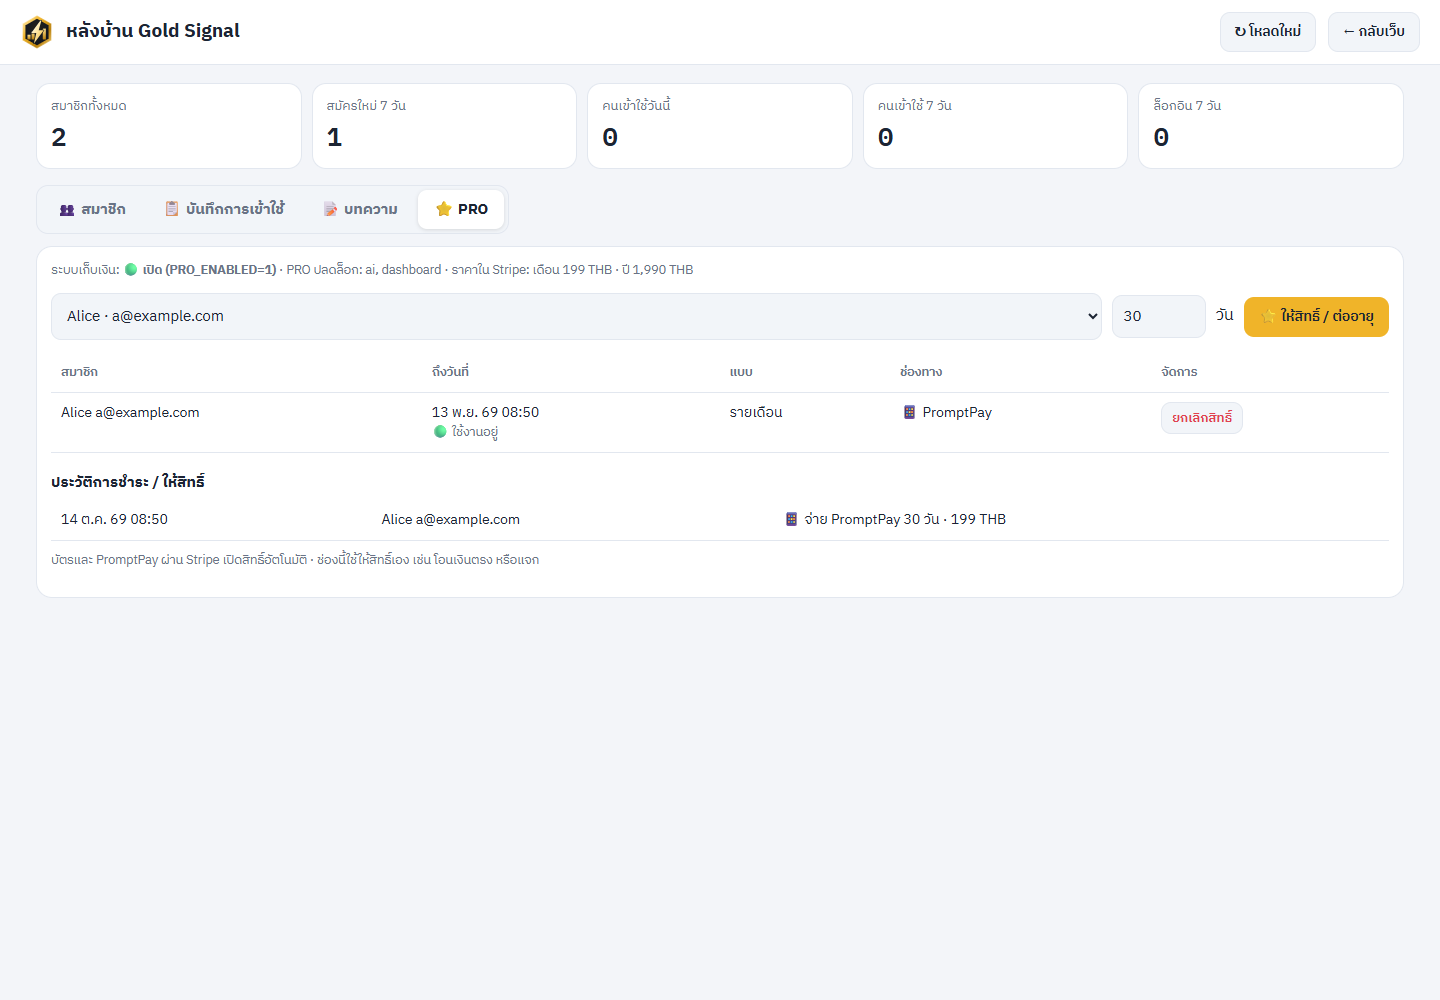
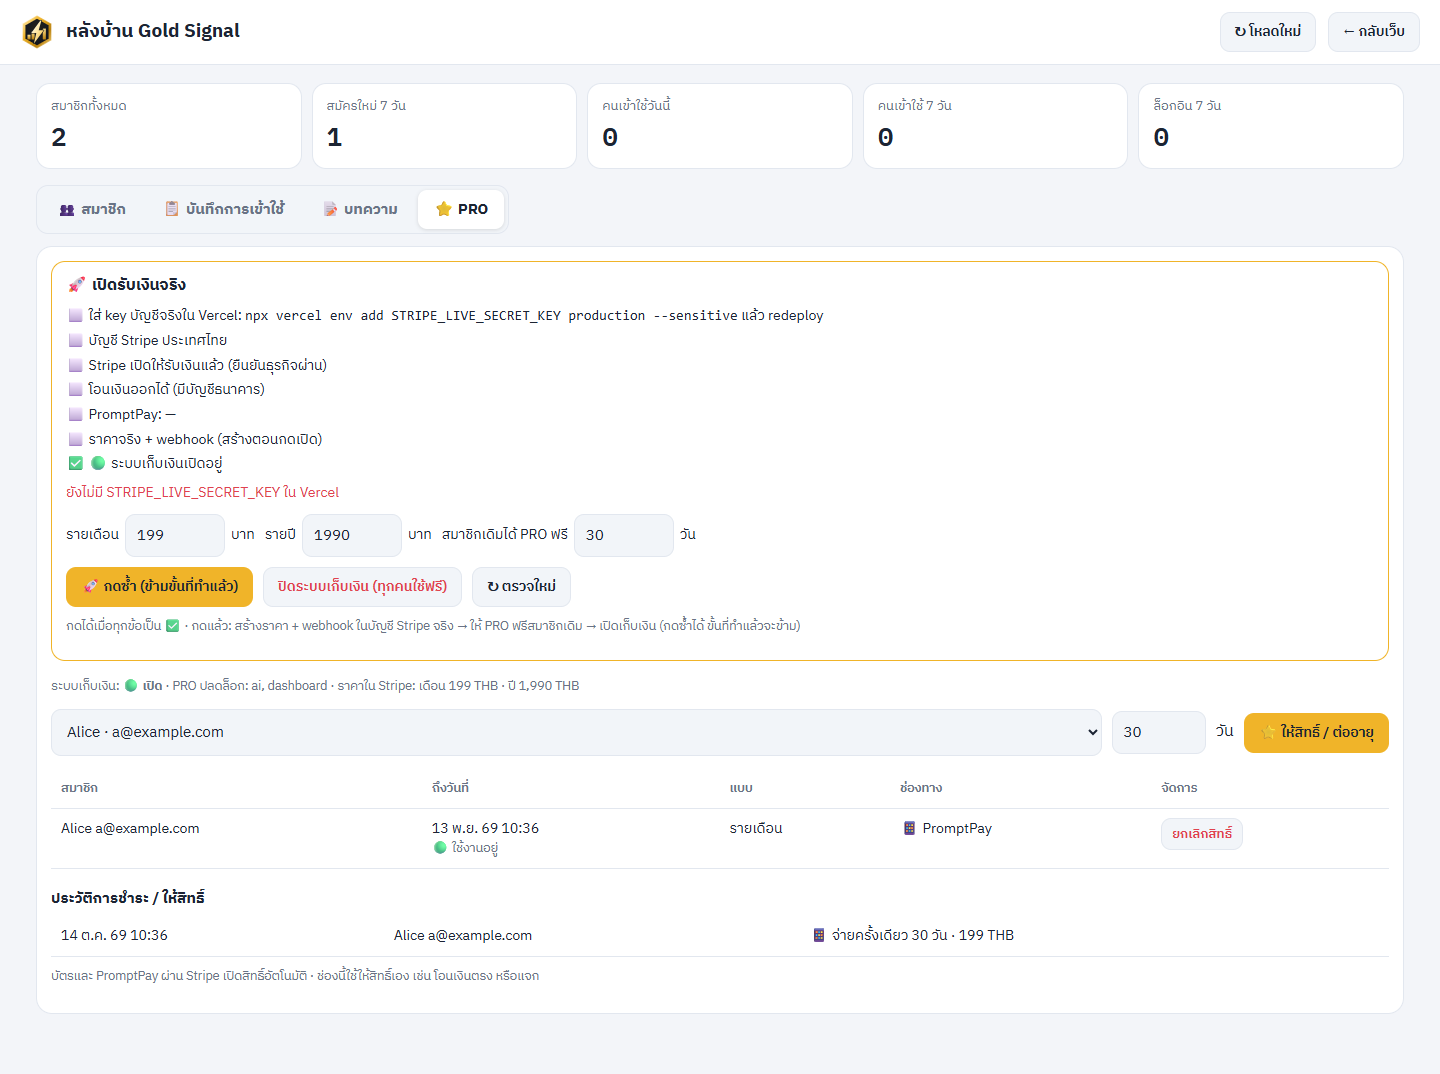
Back-office go-live button: checks the owner's live Thai Stripe account, creates THB prices + webhook, gives existing members 30 days PRO, switches the paywall on (Blob config, no redeploy)

diff --git a/admin.html b/admin.html
@@ -77,6 +77,10 @@
     .art-row b { flex: 1; min-width: 200px; }
     .preview { border: 1px dashed var(--line); border-radius: 12px; padding: 10px 14px; }
     .preview h4 { margin: 10px 0 4px; } .preview p { margin: 6px 0; }
+    .golive { border: 1px solid var(--gold-bg); border-radius: 14px; padding: 12px 14px; margin-bottom: 16px; }
+    .btn:disabled { opacity: .45; cursor: not-allowed; }
+    .gl-checks { list-style: none; margin: 0; padding: 0; display: grid; gap: 3px; font-size: 14px; }
+    .ed .row label.chk input { width: 100px; }
   </style>
 </head>
 <body>
@@ -140,6 +144,20 @@
     </section>
 
     <section class="card" id="proPane" hidden>
+      <div class="golive" id="goLive">
+        <h3 style="margin:0 0 6px;font-size:16px">🚀 เปิดรับเงินจริง</h3>
+        <ul class="gl-checks" id="glChecks"><li>กำลังตรวจ…</li></ul>
+        <div class="ed" style="margin:10px 0 0"><div class="row">
+          <label class="chk">รายเดือน <input id="glMonth" type="number" min="20" value="199"> บาท</label>
+          <label class="chk">รายปี <input id="glYear" type="number" min="20" value="1990"> บาท</label>
+          <label class="chk">สมาชิกเดิมได้ PRO ฟรี <input id="glGift" type="number" min="0" max="365" value="30"> วัน</label>
+        </div><div class="row">
+          <button class="btn gold" type="button" id="glLaunch" disabled>🚀 เปิดรับเงินจริง</button>
+          <button class="btn danger" type="button" id="glOff" hidden>ปิดระบบเก็บเงิน (ทุกคนใช้ฟรี)</button>
+          <button class="btn" type="button" id="glRecheck">↻ ตรวจใหม่</button>
+        </div></div>
+        <p class="note" id="glNote">กดได้เมื่อทุกข้อเป็น ✅ · กดแล้ว: สร้างราคา + webhook ในบัญชี Stripe จริง → ให้ PRO ฟรีสมาชิกเดิม → เปิดเก็บเงิน (กดซ้ำได้ ขั้นที่ทำแล้วจะข้าม)</p>
+      </div>
       <p id="pState" class="note" style="margin-top:0"></p>
       <form class="ed" id="pForm"><div class="row">
         <select id="pWho" style="flex:1;min-width:220px"></select>
@@ -295,13 +313,54 @@
     const SRC = { card: '💳 บัตร', promptpay: '📱 PromptPay', admin: '🛠 แอดมิน' };
     const nameOf = (id) => { const m = members.find((x) => x.id === id); return m ? `${m.name || ''} ${m.email}`.trim() : id; };
     const HT = { launch: '🎁 ของขวัญเปิดตัว', promptpay: '📱 จ่ายครั้งเดียว', subscribe: '💳 สมัครแบบบัตร', renew: '💳 ต่ออายุ', cancel: '✕ ยกเลิก', update: 'อัปเดต', grant: '⭐ แอดมินให้สิทธิ์', revoke: '✕ แอดมินยกเลิก' };
+    // ---------- 🚀 go live (api/golive.mjs) ----------
+    async function loadGoLive() {
+      try {
+        const s = await api('/api/golive');
+        const a = s.account || {};
+        const row = (ok, text, warn) => `<li>${ok ? '✅' : warn ? '⚠' : '⬜'} ${text}</li>`;
+        const live = s.liveKey && /^(sk|rk)_live_$/.test(s.keyKind);
+        $('glChecks').innerHTML = [
+          row(live, s.liveKey ? `ใส่ key บัญชีจริงแล้ว (${esc(s.keyKind)}…)` : 'ใส่ key บัญชีจริงใน Vercel: <code>npx vercel env add STRIPE_LIVE_SECRET_KEY production --sensitive</code> แล้ว redeploy'),
+          row(a.country === 'TH', s.account ? `บัญชี ${esc(a.name || '')} ประเทศ ${esc(a.country || '?')}` : 'บัญชี Stripe ประเทศไทย'),
+          row(!!a.charges, 'Stripe เปิดให้รับเงินแล้ว (ยืนยันธุรกิจผ่าน)'),
+          row(!!a.payouts, 'โอนเงินออกได้ (มีบัญชีธนาคาร)', s.account && !a.payouts),
+          row(a.promptpay === 'active', `PromptPay: ${esc(a.promptpay || '—')}`, s.account && a.promptpay !== 'active'),
+          row(!!s.configured, s.configured ? `ราคาจริง ${s.configured.amounts ? `${s.configured.amounts.month} / ${s.configured.amounts.year} บาท` : ''} + webhook พร้อม` : 'ราคาจริง + webhook (สร้างตอนกดเปิด)'),
+          row(s.enabled, s.enabled ? '🟢 ระบบเก็บเงินเปิดอยู่' : 'ระบบเก็บเงินยังปิด — ทุกคนใช้ฟรี'),
+        ].join('') + (s.problems.length ? `<li class="err" style="margin-top:4px">${s.problems.map(esc).join('<br>')}</li>` : '');
+        $('glLaunch').disabled = !s.ready;
+        $('glLaunch').textContent = s.enabled ? '🚀 กดซ้ำ (ข้ามขั้นที่ทำแล้ว)' : '🚀 เปิดรับเงินจริง';
+        $('glOff').hidden = !s.enabled;
+      } catch (e) { $('glChecks').innerHTML = `<li class="err">${esc(e.message)}</li>`; }
+    }
+    $('glRecheck').addEventListener('click', loadGoLive);
+    $('glLaunch').addEventListener('click', async () => {
+      const month = +$('glMonth').value, year = +$('glYear').value, giftDays = +$('glGift').value;
+      if (!confirm(`เปิดรับเงินจริง?\n\n• ราคา ${month} บาท/เดือน · ${year} บาท/ปี (บัญชี Stripe จริง)\n• สมาชิกเดิมได้ PRO ฟรี ${giftDays} วัน\n• สมาชิกที่ไม่ได้ PRO จะใช้แดชบอร์ดและโค้ช AI ไม่ได้`)) return;
+      $('glLaunch').disabled = true;
+      try {
+        const r = await fetch('/api/golive', { method: 'POST', headers: { 'content-type': 'application/json' }, body: JSON.stringify({ action: 'launch', month, year, giftDays }) });
+        const j = await r.json().catch(() => ({}));
+        if (!r.ok || !j.ok) throw new Error([j.error || 'ไม่สำเร็จ', ...(j.problems || [])].join('\n'));
+        alert('✅ ' + j.steps.join('\n✅ '));
+      } catch (e) { alert(e.message); }
+      loadGoLive(); loadPro();
+    });
+    $('glOff').addEventListener('click', async () => {
+      if (!confirm('ปิดระบบเก็บเงิน? ทุกคนจะใช้ฟีเจอร์ PRO ได้ฟรี (สมาชิกที่จ่ายแล้วยังเป็น PRO ตามเดิม)')) return;
+      try { await api('/api/golive', { method: 'POST', body: JSON.stringify({ action: 'off' }) }); } catch (e) { alert(e.message); }
+      loadGoLive(); loadPro();
+    });
+
     async function loadPro() {
+      loadGoLive();
       try {
         const [st, list] = await Promise.all([api('/api/pro'), api('/api/pro?list=1')]);
         pro = list;
         const pr = st.prices || {};
         const priceTxt = ['month', 'year'].map((k) => (pr[k] ? `${k === 'month' ? 'เดือน' : 'ปี'} ${(pr[k].amount / 100).toLocaleString('th-TH')} ${esc(pr[k].currency.toUpperCase())}` : '')).filter(Boolean).join(' · ') || 'ยังไม่ตั้ง';
-        $('pState').innerHTML = `ระบบเก็บเงิน: <b>${st.enabled ? '🟢 เปิด (PRO_ENABLED=1)' : '⚪ ปิด — ทุกคนใช้ฟีเจอร์ PRO ได้ฟรี'}</b> · PRO ปลดล็อก: ${esc(st.features.join(', '))} · ราคาใน Stripe: ${priceTxt}`;
+        $('pState').innerHTML = `ระบบเก็บเงิน: <b>${st.enabled ? '🟢 เปิด' : '⚪ ปิด — ทุกคนใช้ฟีเจอร์ PRO ได้ฟรี'}</b> · PRO ปลดล็อก: ${esc(st.features.join(', '))} · ราคาใน Stripe: ${priceTxt}`;
         $('pWho').innerHTML = members.filter((m) => !m.admin).map((m) => `<option value="${esc(m.id)}">${esc(m.name || '—')} · ${esc(m.email)}</option>`).join('');
         const rows = Object.entries(pro.users).sort((a, b) => b[1].until - a[1].until);
         $('pBody').innerHTML = rows.length ? rows.map(([id, u]) => `<tr><td class="wide" data-l="สมาชิก">${esc(nameOf(id))}</td>

diff --git a/middleware.js b/middleware.js
@@ -355,12 +355,16 @@ async function adminMembers() {
 }
 
 // ---------- PRO (access/pro.json, written by api/pay/webhook.mjs and api/pro.mjs — same rules as lib/gs.mjs proOf) ----------
-let proCache = { at: 0, users: {} };
+// Paywall on = env PRO_ENABLED=1 or access/pro-config.json { enabled } (the back office's go-live button)
+let proCache = { at: 0, users: {}, enabled: false };
 async function proOk(m, feature) {
-  if (process.env.PRO_ENABLED !== '1') return true;
+  if (Date.now() - proCache.at > 30e3) {
+    const [cfg, all] = await Promise.all([readJson('access/pro-config.json', {}), readJson('access/pro.json', { users: {} })]);
+    proCache = { at: Date.now(), users: all.users || {}, enabled: !!cfg.enabled };
+  }
+  if (process.env.PRO_ENABLED !== '1' && !proCache.enabled) return true;
   if (!(process.env.PRO_FEATURES || 'ai,dashboard').split(',').map((s) => s.trim()).includes(feature)) return true;
   if (isAdmin(m)) return true;
-  if (Date.now() - proCache.at > 30e3) proCache = { at: Date.now(), users: (await readJson('access/pro.json', { users: {} })).users || {} };
   const u = proCache.users[m.id];
   return !!(u && u.until > Date.now());
 }
